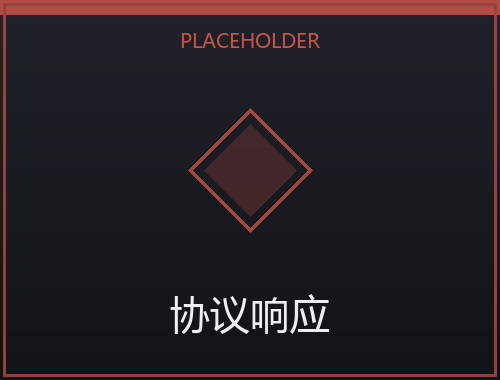
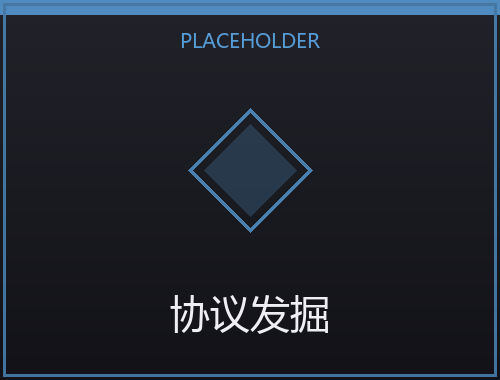
v1.10 第十六轮：反馈对齐 + 卡图错配修正 17 张
- 流水线 / 无限注入：固有改为「升级后获得」（OnUpgrade + AddKeyword，不再进 BaseKeywords）
- 复空间定位：升级反击伤害 3 -> 4（基础仍 2）
- 完全形态：描述删去「（每份各+1）」，结算不变
- 卡图错配修正 17 张（各补自己的占位图 + 改 CustomPortraitPath）：
  调参 / 目标回馈 / 协议发掘 / 镜像构建 / 高阶洞察 / 高速升级 / 优美公式 / 协议核心 /
  终响激发 / 寄生扰乱 / 梯度回归 / 双重译制 / 灾难习性 / 格挡置换 / 协议矩阵 / 冗余清理 / 速检激发
- 删除孤儿占位图 param_iteration / blast / ward / signature，make_assets.py 同步去掉 3 条生产项
- 新增 tools/check_card_art.py：卡名 <-> 卡图文字一致性校验（86 卡 / 86 图 / 0 错配）
- 文档：docs/08 新增 §26 + 回填 §0(P9)/§3/§5/§10.1/§18.4；新建 docs/13-本轮计划-v1.10.md；docs/09 新增 N4

编译 0 error / 0 warning；pck 251 条目录、md5 一致；已部署 mods/MyChar

diff --git a/tools/check_card_art.py b/tools/check_card_art.py
@@ -1,0 +1,69 @@
+"""核对卡牌「本地化名」与「卡图占位图文件名」是否一致。
+
+原理：tools/make_alpha_cards.py 的 JOBS 决定每个 slug 的 PNG 上写的是什么卡名；
+卡牌代码里 MyCharAssets.Card("slug") 决定用哪张 PNG。
+两者对不上 → 游戏里卡图显示的是别的卡名（素材复用 / 张冠李戴）。
+
+用法： python tools/check_card_art.py
+"""
+
+from __future__ import annotations
+
+import re
+from pathlib import Path
+
+ROOT = Path(__file__).resolve().parent.parent
+CARDS = ROOT / "src" / "MyChar" / "Cards"
+ART = ROOT / "src" / "MyChar" / "assets" / "images" / "cards"
+MAKER = ROOT / "tools" / "make_alpha_cards.py"
+
+# JOBS 里的 (slug, 卡名) 映射
+job_re = re.compile(r'\(\s*"([a-z0-9_]+)"\s*,\s*"([^"]+)"\s*,')
+slug_to_name: dict[str, str] = {}
+for line in MAKER.read_text(encoding="utf-8").splitlines():
+    stripped = line.strip()
+    if stripped.startswith("(") and "PLACEHOLDER" not in stripped:
+        m = job_re.match(stripped)
+        if m:
+            slug_to_name[m.group(1)] = m.group(2)
+
+portrait_re = re.compile(r'CustomPortraitPath\s*=>\s*MyCharAssets\.Card\("([a-z0-9_]+)"\)')
+name_re = re.compile(r'new CardLoc\(\s*\n\s*"([^"]+)"')
+
+rows = []
+for cs in sorted(CARDS.glob("*.cs")):
+    text = cs.read_text(encoding="utf-8")
+    pm = portrait_re.search(text)
+    nm = name_re.search(text)
+    if not pm or not nm:
+        continue
+    slug = pm.group(1)
+    name = nm.group(1)
+    rows.append((cs.stem, name, slug, slug_to_name.get(slug, "<未生成>")))
+
+used = {r[2] for r in rows}
+files = {p.stem for p in ART.glob("*.png")}
+
+print("=== 卡图错配（卡名 ≠ 图名） ===")
+# 这几张用的是真美术（本体打击 / 防御的图），不属于 make_alpha_cards.py 的占位图，跳过
+REAL_ART = {"strike", "defend"}
+bad = 0
+for cls, name, slug, art_name in rows:
+    if slug in REAL_ART:
+        continue
+    if name != art_name:
+        bad += 1
+        print(f"  {cls:24s} 卡名={name:6s}  图={slug}({art_name})")
+if bad == 0:
+    print("  （无）")
+
+print(f"\n=== 引用了但没生成的图 ===")
+for cls, name, slug, art_name in rows:
+    if not (ART / f"{slug}.png").exists():
+        print(f"  {cls:24s} -> {slug}.png 不存在")
+
+print("\n=== 生成了但没被引用的图 ===")
+for slug in sorted(files - used):
+    print(f"  {slug}.png  ({slug_to_name.get(slug, '?')})")
+
+print(f"\n卡牌 {len(rows)} 张 / 图 {len(files)} 张 / 错配 {bad} 张")

diff --git a/tools/make_alpha_cards.py b/tools/make_alpha_cards.py
@@ -46,7 +46,7 @@ JOBS = [
     ("direct_hit", "正击", ATTACK),
     ("disparity_count", "悬殊计数", SKILL),
     ("param_gather", "参数采集", SKILL),
-    ("quick_search", "快速检索", SKILL),
+    ("quick_search", "速检激发", SKILL),
     ("cache_refresh", "缓存刷新", SKILL),
     ("protocol_sample", "协议采样", PROTO),
     ("recursive_practice", "递归练习", SKILL),
@@ -58,8 +58,7 @@ JOBS = [
     ("protocol_cohesion", "协议凝聚", PROTO),
     ("condense_qi", "凝神聚气", SKILL),
     ("protocol_iteration", "协议迭代", PROTO),
-    ("param_iteration", "传参迭代", ATTACK),
-    ("protocol_response", "协议响应", ATTACK),
+    ("protocol_response", "协议发掘", SKILL),
     ("call", "调用", SKILL),
     ("data_collection", "数据收集", ATTACK),
     ("warmup_loop", "预热循环", SKILL),
@@ -114,6 +113,24 @@ JOBS = [
     ("pipeline", "流水线", POWER),
     ("infinite_injection", "无限注入", POWER),
     ("battle_preset", "战斗预设", ATTACK),
+    # —— 卡图错配修正（v1.9 第十六轮 · 2026-10-09） ——
+    # 以下卡此前 CustomPortraitPath 复用了别的卡的占位图（卡面上写着别人的卡名）；
+    # 本轮各补一张自己的图，并把代码指向新 slug。旧图若仍被原卡使用则保留。
+    ("parameter_tuning", "调参", ATTACK),
+    ("target_feedback", "目标回馈", ATTACK),
+    ("mirror_construction", "镜像构建", SKILL),
+    ("iteration_broadcast", "高阶洞察", POWER),
+    ("high_speed_upgrade", "高速升级", SKILL),
+    ("elegant_formula", "优美公式", POWER),
+    ("protocol_core", "协议核心", POWER),
+    ("final_echo_stimulus", "终响激发", POWER),
+    ("parasitic_disruption", "寄生扰乱", SKILL),
+    ("gradient_regression", "梯度回归", POWER),
+    ("double_translation", "双重译制", ATTACK),
+    ("disaster_habit", "灾难习性", ATTACK),
+    ("block_displacement", "格挡置换", SKILL),
+    ("protocol_matrix", "协议矩阵", POWER),
+    ("redundant_cleanup", "冗余清理", SKILL),
 ]
 
 

diff --git a/src/MyChar/Cards/DuospacePositioning.cs b/src/MyChar/Cards/DuospacePositioning.cs
@@ -12,7 +12,7 @@ using MyCharMod.Mechanics;
 namespace MyCharMod;
 
 /// <summary>
-/// 罕见技能「复空间定位」：获得 8 格挡；本回合受到攻击时，对所有敌人造成 2（3）伤。
+/// 罕见技能「复空间定位」：获得 8 格挡；本回合受到攻击时，对所有敌人造成 2（升级 4）伤。
 /// 反击由 <see cref="DuospacePositioningPower"/> 承载，回合结束移除。
 /// </summary>
 [Pool(typeof(MyCharCardPool))]
@@ -43,5 +43,5 @@ public sealed class DuospacePositioning : AlphaCard
             ResolveValue("Retaliate"), Owner.Creature, this);
     }
 
-    protected override void OnUpgrade() => DynamicVars["Retaliate"].UpgradeValueBy(1m);
+    protected override void OnUpgrade() => DynamicVars["Retaliate"].UpgradeValueBy(2m);
 }

diff --git a/src/MyChar/Cards/FullForm.cs b/src/MyChar/Cards/FullForm.cs
@@ -23,7 +23,7 @@ public sealed class FullForm : AlphaCard
 
     public override List<(string, string)>? Localization => new CardLoc(
         "完全形态",
-        "迭代牌完成[gold]迭代[/gold]时，所有迭代牌计数+1（每份各+1，每回合一次）。\n响应牌触发[gold]响应[/gold]时，随机返还本次消耗的[gold]传参[/gold]。",
+        "迭代牌完成[gold]迭代[/gold]时，所有迭代牌计数+1（每回合一次）。\n响应牌触发[gold]响应[/gold]时，随机返还本次消耗的[gold]传参[/gold]。",
         ("flavor", "当所有回路同时闭合，它就成了完整的自己。"));
 
     public FullForm()

diff --git a/tools/make_assets.py b/tools/make_assets.py
@@ -40,9 +40,6 @@ JOBS = [
     ("energy_icon.png", "ui/energy_text.png", 24, 24, "alpha"),
     ("card_strike.jpg", "cards/strike.png", *CARD, "crop"),
     ("card_defend.jpg", "cards/defend.png", *CARD, "crop"),
-    ("card_blast.jpg", "cards/blast.png", *CARD, "crop"),
-    ("card_ward.jpg", "cards/ward.png", *CARD, "crop"),
-    ("card_signature.jpg", "cards/signature.png", *CARD, "crop"),
     ("relic_ember_heart.jpg", "relics/ember_heart.png", 256, 256, "cut"),
     ("relic_old_anchor.jpg", "relics/old_anchor.png", 256, 256, "cut"),
     # 药水：源图自带透明通道，本体大图 256x256；局内槽位按 keep-aspect 缩到 60x60，

diff --git a/src/MyChar/Cards/BlockDisplacement.cs b/src/MyChar/Cards/BlockDisplacement.cs
@@ -22,7 +22,7 @@ public sealed class BlockDisplacement : AlphaCard
     /// <summary>本牌本次去除的敌人格挡量，供 <see cref="BuildParam"/> 写入传参。</summary>
     private decimal _removedBlock;
 
-    public override string? CustomPortraitPath => MyCharAssets.Card("protocol_bulwark");
+    public override string? CustomPortraitPath => MyCharAssets.Card("block_displacement");
 
     public override List<(string, string)>? Localization => new CardLoc(
         "格挡置换",

diff --git a/src/MyChar/Cards/InfiniteInjection.cs b/src/MyChar/Cards/InfiniteInjection.cs
@@ -34,4 +34,8 @@ public sealed class InfiniteInjection : AlphaCard
     {
         await PowerCmd.Apply<InfiniteInjectionPower>(choiceContext, Owner.Creature, 1m, Owner.Creature, this);
     }
+
+    // 固有走 AddKeyword：BaseKeywords 依赖 IsUpgraded 时，LocalKeywords 会在升级前就被缓存成不含固有的集合，
+    // 升级后不会刷新（见 CardModel.LocalKeywords）。
+    protected override void OnUpgrade() => AddKeyword(CardKeyword.Innate);
 }

diff --git a/src/MyChar/Cards/Pipeline.cs b/src/MyChar/Cards/Pipeline.cs
@@ -34,4 +34,8 @@ public sealed class Pipeline : AlphaCard
     {
         await PowerCmd.Apply<PipelinePower>(choiceContext, Owner.Creature, 1m, Owner.Creature, this);
     }
+
+    // 固有走 AddKeyword：BaseKeywords 依赖 IsUpgraded 时，LocalKeywords 会在升级前就被缓存成不含固有的集合，
+    // 升级后不会刷新（见 CardModel.LocalKeywords）。
+    protected override void OnUpgrade() => AddKeyword(CardKeyword.Innate);
 }

diff --git a/src/MyChar/Cards/ProtocolCore.cs b/src/MyChar/Cards/ProtocolCore.cs
@@ -18,7 +18,7 @@ public sealed class ProtocolCore : AlphaCard
 {
     protected override IEnumerable<CardKeyword> BaseKeywords => new[] { CardKeyword.Ethereal };
 
-    public override string? CustomPortraitPath => MyCharAssets.Card("protocol_cohesion");
+    public override string? CustomPortraitPath => MyCharAssets.Card("protocol_core");
 
     public override List<(string, string)>? Localization => new CardLoc(
         "协议核心",

diff --git a/src/MyChar/Cards/DoubleTranslation.cs b/src/MyChar/Cards/DoubleTranslation.cs
@@ -30,7 +30,7 @@ public sealed class DoubleTranslation : AlphaCard
         new AlphaDamageVar(8m, ValueProp.Move),
     };
 
-    public override string? CustomPortraitPath => MyCharAssets.Card("double_reconstruct");
+    public override string? CustomPortraitPath => MyCharAssets.Card("double_translation");
 
     public override List<(string, string)>? Localization => new CardLoc(
         "双重译制",

diff --git a/src/MyChar/Cards/IterationBroadcast.cs b/src/MyChar/Cards/IterationBroadcast.cs
@@ -28,7 +28,7 @@ public sealed class IterationBroadcast : AlphaCard
         new DynamicVar("IterEvery", 3m),
     };
 
-    public override string? CustomPortraitPath => MyCharAssets.Card("param_iteration");
+    public override string? CustomPortraitPath => MyCharAssets.Card("iteration_broadcast");
 
     public override List<(string, string)>? Localization => new CardLoc(
         "高阶洞察",

diff --git a/src/MyChar/Cards/DisasterHabit.cs b/src/MyChar/Cards/DisasterHabit.cs
@@ -26,7 +26,7 @@ public sealed class DisasterHabit : AlphaCard
         new AlphaDamageVar(18m, ValueProp.Move),
     };
 
-    public override string? CustomPortraitPath => MyCharAssets.Card("point_execution");
+    public override string? CustomPortraitPath => MyCharAssets.Card("disaster_habit");
 
     public override List<(string, string)>? Localization => new CardLoc(
         "灾难习性",
